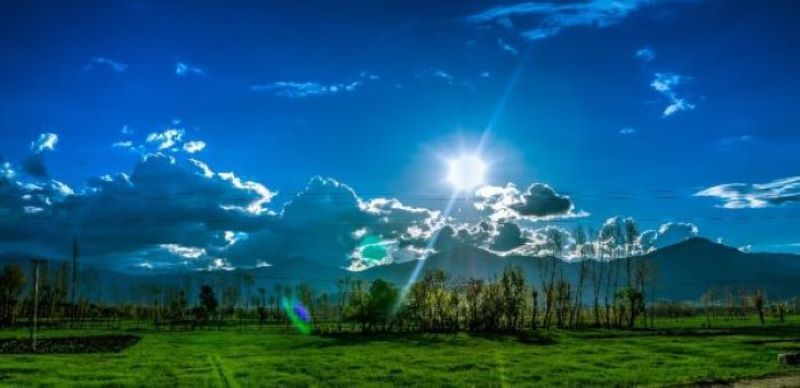
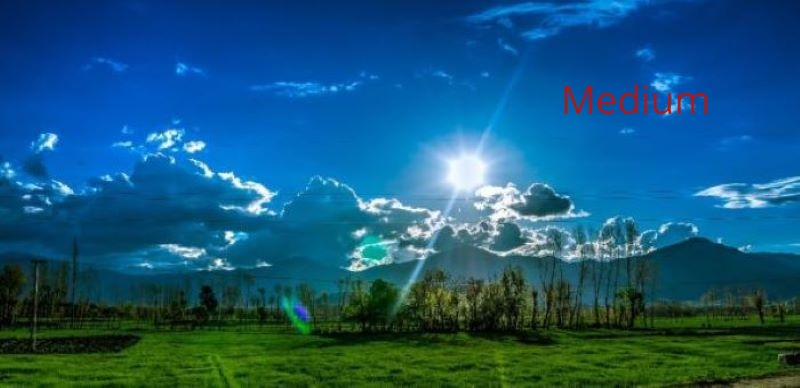
add text to images

Changed region(s): [[0.6875, 0.2165, 0.9062, 0.3093]]

diff --git a/index.html b/index.html
@@ -30,5 +30,16 @@
          <script src="date.js"></script>
         </p>
     </footer>
+    <script src="https://ajax.googleapis.com/ajax/libs/webfont/1.6.26/webfont.js"></script>
+    <script>
+    WebFont.load({
+  google: {
+    families: [
+       'Yusei Magic'
+    ]
+  }
+});
+    </script>
+   
   </body>
 </html>
